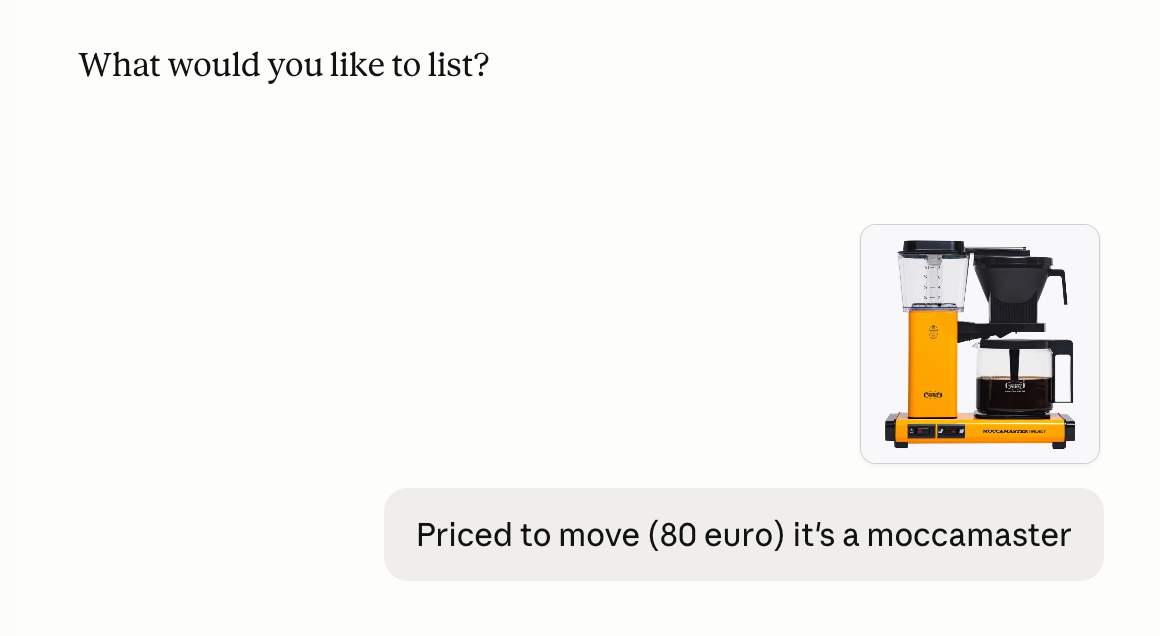
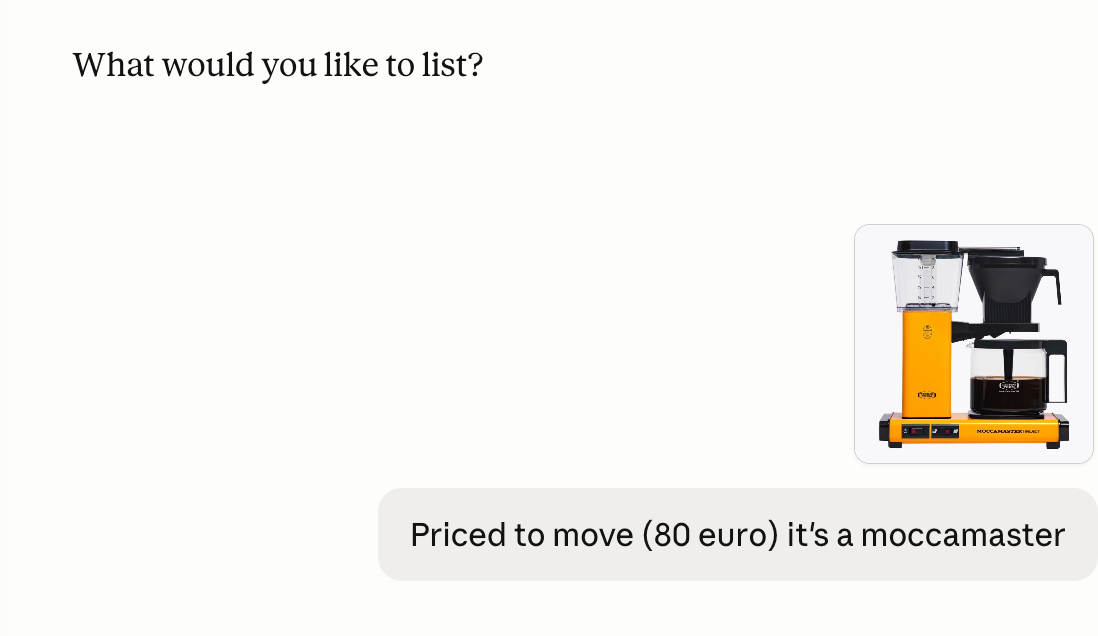
Deploy landing: Zoom in: stack 'Add and edit items' tiles vertically + trim screenshot padding
Problem: tiles were a 2-column grid, so each screenshot rendered at
~390px wide — too small to read the chat / editor contents.

Fix: add .paths-stacked modifier that makes 'Add and edit items'
use a single column, so each screenshot renders at the full tile
width (~870px, roughly 2x). 'Two ways to host it' keeps the 2-column
layout since it's text-only cards.

Also swapped the screenshots for auto-trimmed versions (magick -trim)
which knocked off ~60-75px of outer whitespace — not dramatic, but
every pixel of content helps at render time. 1f0f2175ea58a598c23599b93a30cbc043433dbe

Changed region(s): [[0.7432, 0.3585, 0.9909, 0.717], [0.3406, 0.8066, 0.9599, 0.8664], [0.0619, 0.0597, 0.4335, 0.1494]]

diff --git a/index.html b/index.html
@@ -157,6 +157,10 @@ h2 {
   gap: 20px;
 }
 @media (max-width: 720px) { .paths { grid-template-columns: 1fr; } }
+/* Stack variant for sections that contain full-width screenshots,
+   so the images render at the full tile width instead of being
+   squeezed into a 2-column grid where screenshot text is unreadable. */
+.paths.paths-stacked { grid-template-columns: 1fr; gap: 24px; }
 .path {
   background: var(--surface);
   border: 1px solid var(--line);
@@ -337,7 +341,7 @@ footer .links { display: flex; gap: 18px; flex-wrap: wrap; }
 <section>
   <div class="wrap">
     <h2>Add and edit items.</h2>
-    <div class="paths">
+    <div class="paths paths-stacked">
       <div class="path">
         <h3>Chat with Claude.</h3>
         <p>
